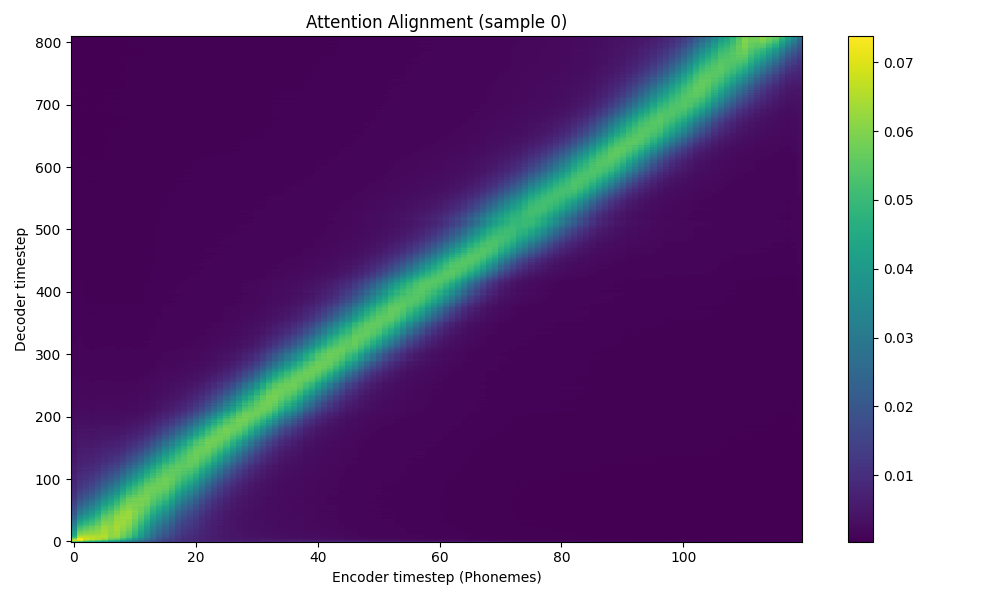
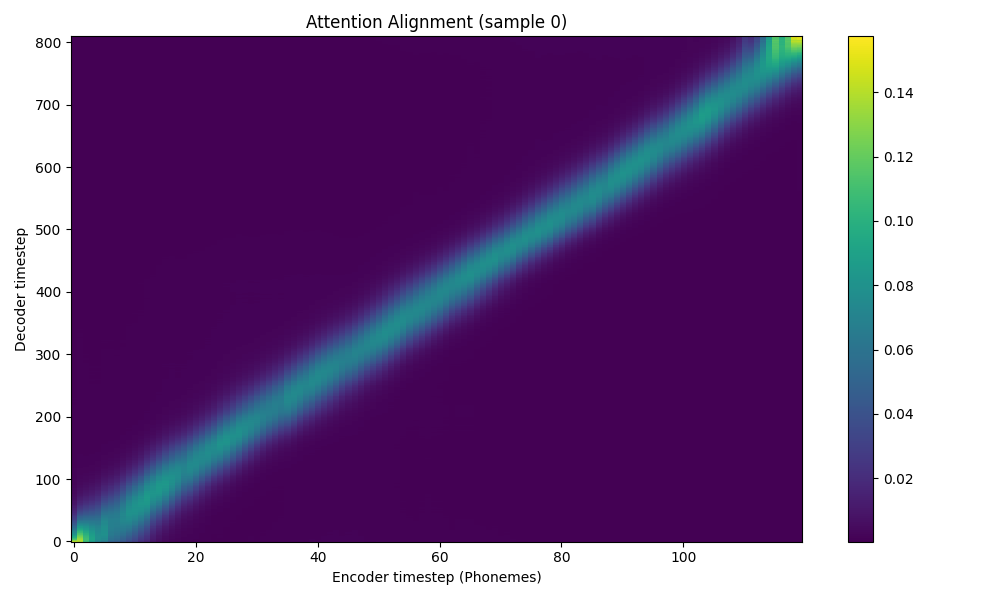
add length-aware KL guidance, energy scaling, improved visualization & debug refinements

diff --git a/train.py b/train.py
@@ -21,10 +21,13 @@ class Tacotron2Loss(nn.Module):
         # Attention guidance scheduling params
         self.attn_weight_start = 1.0
         self.min_attn_weight = 0.2
-        self.entropy_target = 2.0  # when entropy drops below this, begin decaying weight
+        self.entropy_target = 3.5  # CHANGED: earlier decay trigger
         self.current_attention_weight = self.attn_weight_start
 
         self.global_step = 0  # counts forward() calls (batches/iterations)
+
+        # Allow per-run override of sigma warmup
+        self.sigma_warmup_steps = config.attention_sigma_warmup_steps
 
     def get_mask_from_lengths(self, lengths):
         max_len = torch.max(lengths).item()
@@ -46,7 +49,7 @@ class Tacotron2Loss(nn.Module):
             text_lengths.float() * config.attention_initial_sigma_factor,
             min=3.0, max=config.attention_max_sigma_cap
         )  # (B,)
-        progress = min(1.0, self.global_step / float(config.attention_sigma_warmup_steps))
+        progress = min(1.0, self.global_step / float(self.sigma_warmup_steps))  # CHANGED: use instance value
         sigma = init_sigma - (init_sigma - config.attention_min_sigma) * progress  # (B,)
         self.current_sigma = float(sigma.mean().item())
 
@@ -110,6 +113,10 @@ class Tacotron2Loss(nn.Module):
                 attn_weights_safe = attn_weights.clamp_min(1e-8)
                 log_pred = attn_weights_safe.log()
                 attention_kl = F.kl_div(log_pred, diagonal_target, reduction='batchmean')
+                # NEW: normalize by decoder length to reduce magnitude
+                attention_kl = attention_kl / T_dec
+                # Optional (safety) cap to avoid domination
+                attention_kl = torch.clamp(attention_kl, max=150.0)
                 attn_entropy = -(attn_weights_safe * log_pred).sum(dim=2).mean()
                 # Weight schedule
                 if attn_entropy <= self.entropy_target:
@@ -179,8 +186,27 @@ def train(metadata_path, checkpoint_dir, epochs, batch_size, learning_rate, debu
     print(f"Loaded {len(dataset)} training samples.")
 
     model = Tacotron2().to(device)
-    optimizer = torch.optim.Adam(model.parameters(), lr=learning_rate)
     criterion = Tacotron2Loss()
+    
+    # NEW: configurable PostNet freeze steps (fewer for debug)
+    postnet_freeze_steps = 300 if debug_overfit else 3000
+    global_step = 0  # track here for PostNet gating
+    # Optimizer with attention LR scaling (debug) or standard
+    if debug_overfit:
+        attention_params = list(model.decoder.attention.parameters())
+        # BUG FIX: avoid 'p not in attention_params' (ambiguous tensor truth value)
+        attention_param_ids = {id(p) for p in attention_params}
+        other_params = [p for p in model.parameters() if p.requires_grad and id(p) not in attention_param_ids]
+        optimizer = torch.optim.Adam(
+            [
+                {"params": other_params, "lr": learning_rate},
+                {"params": attention_params, "lr": learning_rate * 2.0},  # higher LR for attention
+            ]
+        )
+        # Shorter sigma warmup for debug
+        criterion.sigma_warmup_steps = 800
+    else:
+        optimizer = torch.optim.Adam(model.parameters(), lr=learning_rate)
     
     # --- UNIVERSAL MIXED-PRECISION ---
     # GradScaler is enabled only for CUDA, not MPS due to compatibility issues
@@ -224,7 +250,8 @@ def train(metadata_path, checkpoint_dir, epochs, batch_size, learning_rate, debu
         for iteration in range(epochs * 20):  # Fewer iterations for safety
             optimizer.zero_grad(set_to_none=True)
             with torch.autocast(device_type=device.type, enabled=use_amp):
-                model_outputs = model(text_padded, mel_padded, input_lengths)
+                use_postnet = (global_step >= postnet_freeze_steps)
+                model_outputs = model(text_padded, mel_padded, input_lengths, use_postnet=use_postnet)
                 total_loss, mel_loss, gate_loss, attention_kl = criterion(
                     model_outputs, (mel_padded, gate_target, mel_lengths), text_lengths=input_lengths
                 )
@@ -235,6 +262,7 @@ def train(metadata_path, checkpoint_dir, epochs, batch_size, learning_rate, debu
             torch.nn.utils.clip_grad_norm_(model.parameters(), 1.0)
             scaler.step(optimizer)
             scaler.update()
+            global_step += 1
             if (iteration + 1) % 5 == 0:
                 eff_attn = criterion.current_attention_weight * attention_kl.item()
                 print(f"Iteration {iteration+1:4d}, Total: {total_loss.item():.6f}")
@@ -286,7 +314,14 @@ def train(metadata_path, checkpoint_dir, epochs, batch_size, learning_rate, debu
         print(f"\nEpoch: {epoch + 1}/{epochs}")
         
         for i, batch in enumerate(data_loader):
-            text_padded, input_lengths, mel_padded, mel_lengths = batch  # capture lengths
+            text_padded, input_lengths, mel_padded, mel_lengths = batch
+            
+            # NEW: length sort (descending) for better attention gradients
+            sort_idx = torch.argsort(input_lengths, descending=True)
+            text_padded = text_padded[sort_idx]
+            input_lengths = input_lengths[sort_idx]
+            mel_padded = mel_padded[sort_idx]
+            mel_lengths = mel_lengths[sort_idx]
             
             text_padded = text_padded.to(device)
             input_lengths = input_lengths.to(device)
@@ -303,13 +338,11 @@ def train(metadata_path, checkpoint_dir, epochs, batch_size, learning_rate, debu
             
             # Autocast is also enabled only on GPU
             with torch.autocast(device_type=device.type, enabled=use_amp):
-                model_outputs = model(text_padded, mel_padded, input_lengths)
+                use_postnet = (global_step >= postnet_freeze_steps)
+                model_outputs = model(text_padded, mel_padded, input_lengths, use_postnet=use_postnet)
                 total_loss, mel_loss, gate_loss, attention_kl = criterion(
                     model_outputs, (mel_padded, gate_target, mel_lengths), text_lengths=input_lengths
                 )
-            # Optional KL cap (uncomment if needed):
-            # attention_kl = torch.clamp(attention_kl, max=100.0)
-            # BUG FIX: use total_loss (scalar) for scaler / backward
             scaler.scale(total_loss).backward()
             scaler.unscale_(optimizer)
             torch.nn.utils.clip_grad_norm_(model.parameters(), 1.0)

diff --git a/src/model.py b/src/model.py
@@ -97,7 +97,9 @@ class LocationSensitiveAttention(nn.Module):
         )
         self.location_dense = nn.Linear(config.location_n_filters, config.attention_dim, bias=False)
         self.v = nn.Linear(config.attention_dim, 1, bias=True)
-        self.mask = None  # (batch, time)
+        self.mask = None
+        # NEW: learnable energy scale (temperature inverse)
+        self.energy_scale = nn.Parameter(torch.tensor(1.2))  # initialized >1 for mild sharpening
 
     def init_states(self, memory, mask=None):
         """
@@ -124,7 +126,8 @@ class LocationSensitiveAttention(nn.Module):
         loc_feats = self.location_conv(loc_feats_in)                        # (B, F, T_enc)
         loc_feats = loc_feats.transpose(1, 2)                               # (B, T_enc, F)
         loc_feats = self.location_dense(loc_feats)                          # (B, T_enc, attn_dim)
-        energies = self.v(torch.tanh(processed_query + self.processed_memory + loc_feats)).squeeze(-1)  # (B, T_enc)
+        energies = self.v(torch.tanh(processed_query + self.processed_memory + loc_feats)).squeeze(-1)
+        energies = energies * self.energy_scale  # NEW: scale energies
         if self.mask is not None:
             energies = energies.masked_fill(self.mask, -1e9)
         return energies
@@ -414,7 +417,7 @@ class Tacotron2(nn.Module):
 
     # In the Tacotron2 class in src/model.py
 
-    def forward(self, text_inputs, mel_targets, text_lengths=None):
+    def forward(self, text_inputs, mel_targets, text_lengths=None, use_postnet=True):
         """
         text_lengths: (B,) tensor of original (unpadded) text lengths
         """
@@ -431,9 +434,12 @@ class Tacotron2(nn.Module):
         mel_outputs_coarse, gate_outputs, alignments = self.decoder(
             encoder_outputs, mel_targets, mask=enc_mask
         )
-        mel_outputs_coarse_t = mel_outputs_coarse.transpose(1, 2)
-        postnet_residual = self.postnet(mel_outputs_coarse_t).transpose(1, 2)
-        mel_outputs_postnet = mel_outputs_coarse + postnet_residual
+        if use_postnet:
+            mel_outputs_coarse_t = mel_outputs_coarse.transpose(1, 2)
+            postnet_residual = self.postnet(mel_outputs_coarse_t).transpose(1, 2)
+            mel_outputs_postnet = mel_outputs_coarse + postnet_residual
+        else:
+            mel_outputs_postnet = mel_outputs_coarse  # NEW: bypass PostNet early
         return (mel_outputs_postnet, mel_outputs_coarse, gate_outputs, alignments)
 
     def inference(self, text_inputs, text_lengths=None):
